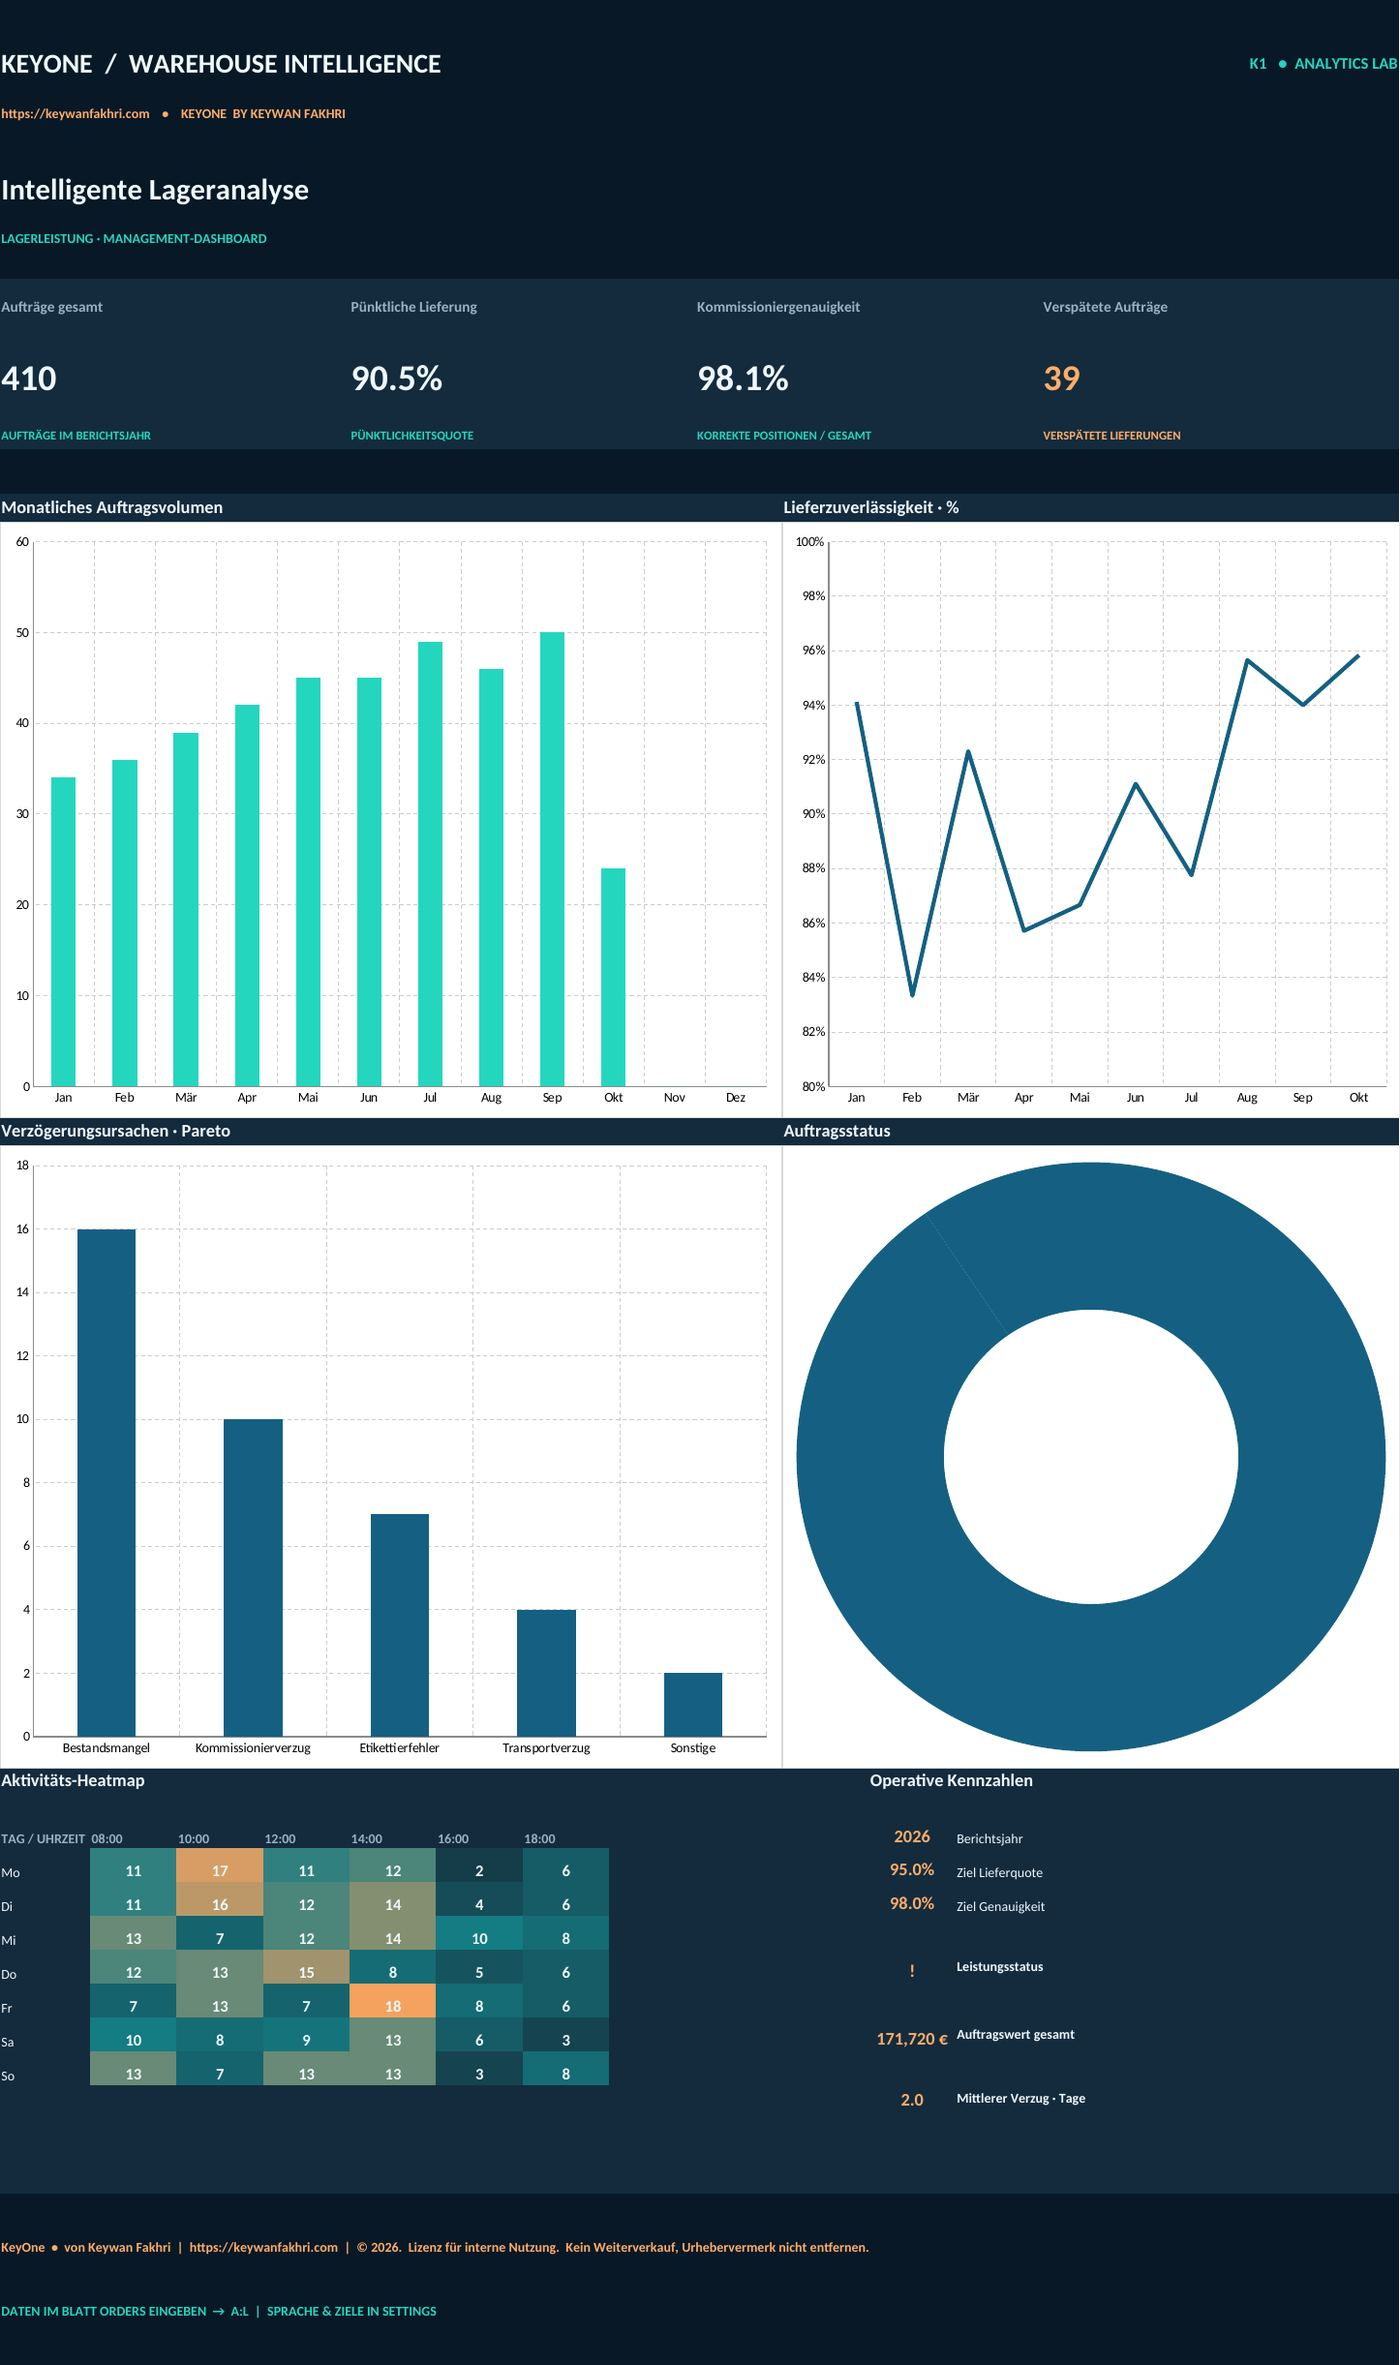
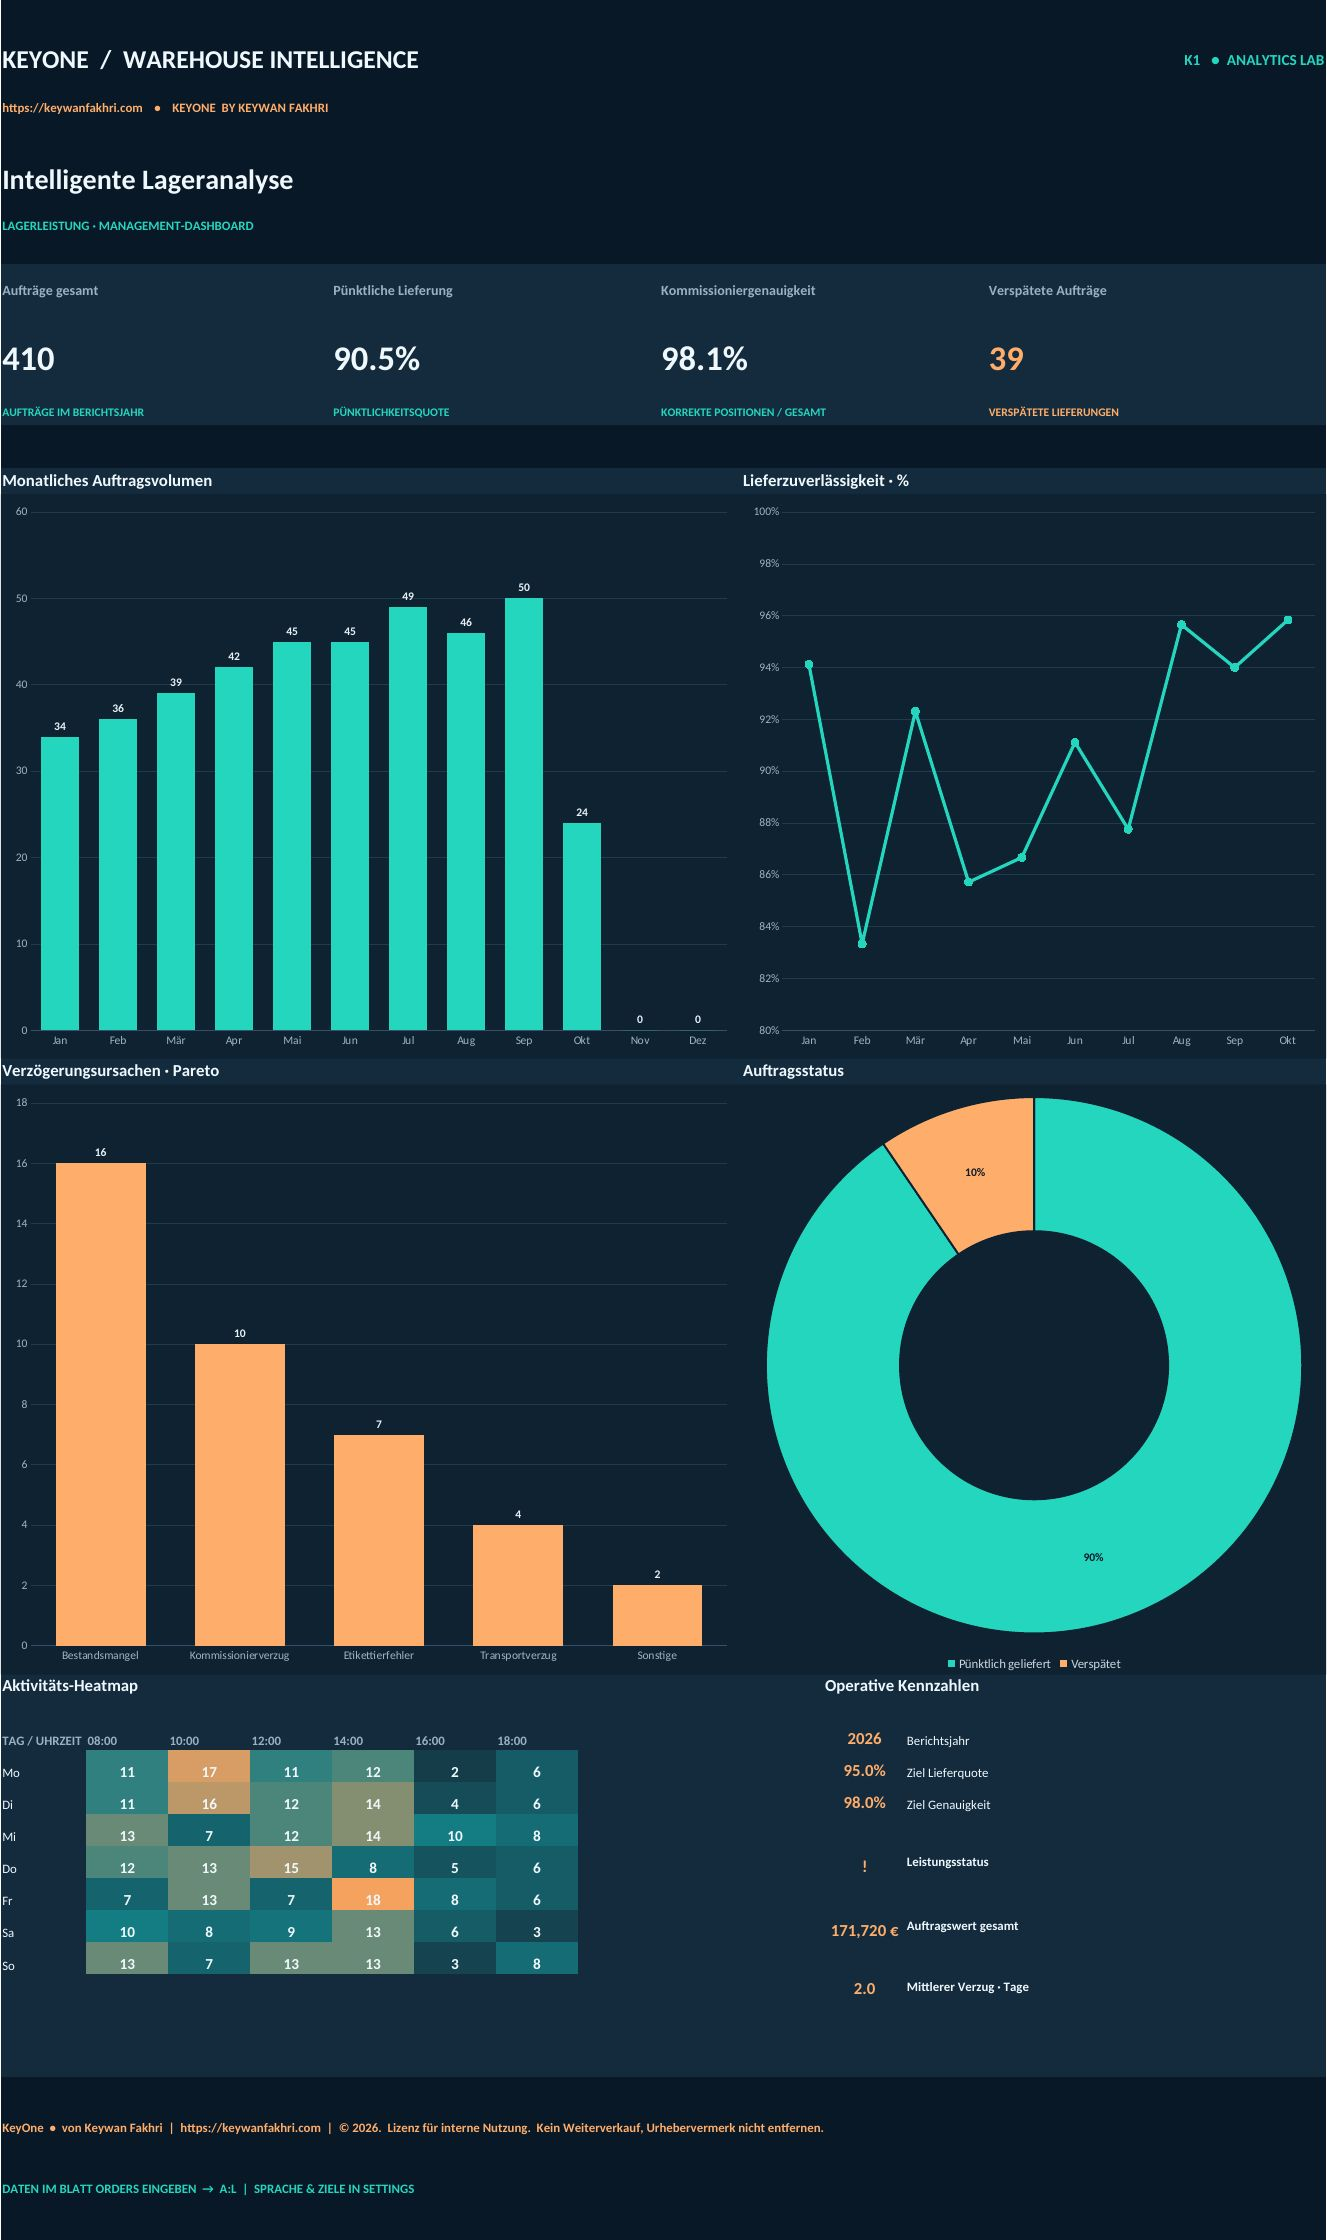
Excel-Vorlagen: Vorschau als Excel-Fenster mit Blatt-Tabs, dunkle Diagramme
Claude-Session: https://claude.ai/code/session_011zZ8NJpMd945i2FbyrcgdB

diff --git a/templates/index.html b/templates/index.html
@@ -36,12 +36,20 @@ html[dir=rtl] .eyebrow{letter-spacing:0}
 h1{font-family:Manrope,'DM Sans',Arial,sans-serif;font-size:clamp(32px,4.2vw,54px);font-weight:600;line-height:1.12;letter-spacing:-1.6px;margin:0;max-width:820px}
 html[dir=rtl] h1,html[dir=rtl] h2{font-family:'Vazirmatn',Arial,sans-serif;letter-spacing:0}
 .lead{font-size:18px;line-height:1.75;color:var(--muted);max-width:640px;margin:20px 0 0}
-.tpl{display:grid;grid-template-columns:minmax(0,1.05fr) minmax(0,1fr);gap:56px;align-items:start;padding:28px 0 64px}
-.shot{margin:0;position:sticky;top:24px}
-.shot a{display:block;border-radius:14px;overflow:hidden;background:var(--night);box-shadow:0 30px 60px -36px rgba(11,26,38,.55),0 0 0 1px rgba(11,26,38,.08);max-height:640px;position:relative}
-.shot img{display:block;width:100%;height:auto}
-.shot a:after{content:"";position:absolute;inset:auto 0 0 0;height:90px;background:linear-gradient(transparent,var(--night))}
-.shot figcaption{font-size:13px;color:var(--muted);margin-top:12px}
+.tpl{display:grid;grid-template-columns:minmax(0,1.15fr) minmax(0,1fr);gap:56px;align-items:start;padding:28px 0 64px}
+.shot{margin:0}
+.win{border-radius:14px;overflow:hidden;background:#0b1a26;box-shadow:0 40px 80px -40px rgba(11,26,38,.6),0 0 0 1px rgba(11,26,38,.12)}
+.win-bar{display:flex;align-items:center;gap:14px;height:42px;padding:0 16px;background:#e9eef0;border-bottom:1px solid #d3dbde}
+.dots{display:flex;gap:7px}.dots i{width:11px;height:11px;border-radius:50%;background:#ff5f57}.dots i:nth-child(2){background:#febc2e}.dots i:nth-child(3){background:#28c840}
+.fname{display:flex;align-items:center;gap:8px;font-size:13px;font-weight:600;color:#3b4d55;overflow:hidden;white-space:nowrap;text-overflow:ellipsis}
+.fname svg{width:16px;height:16px;flex:none}
+.win-body{display:block;background:#0b1a26;line-height:0}
+.win-body img{display:block;width:100%;height:auto;transition:opacity .2s}
+.win-tabs{display:flex;gap:2px;padding:0 10px;background:#e9eef0;border-top:1px solid #d3dbde;overflow-x:auto}
+.win-tabs button{border:0;background:transparent;font:inherit;font-size:13px;font-weight:600;color:#5b6b6c;padding:11px 16px 10px;border-bottom:3px solid transparent;cursor:pointer;white-space:nowrap}
+.win-tabs button:hover{color:var(--ink)}
+.win-tabs button[aria-selected=true]{background:#fff;color:#107c41;border-bottom-color:#107c41}
+.side{position:sticky;top:24px}
 .tag{display:inline-block;font-size:12px;font-weight:700;letter-spacing:1.2px;color:var(--accent-d);background:var(--pale);border:1px solid #cfe5e0;border-radius:999px;padding:6px 12px;direction:ltr}
 h2{font-family:Manrope,'DM Sans',Arial,sans-serif;font-size:clamp(28px,3vw,38px);font-weight:600;letter-spacing:-1px;margin:18px 0 4px;direction:ltr;text-align:start}
 html[dir=rtl] h2{text-align:right}
@@ -73,8 +81,7 @@ footer.foot .wrap{display:flex;justify-content:space-between;gap:16px;flex-wrap:
 @media (max-width:900px){
  .wrap{padding:0 16px}
  .tpl{grid-template-columns:1fr;gap:32px}
- .shot{position:static}
- .shot a{max-height:520px}
+ .side{position:static}
  .steps{grid-template-columns:1fr}
  .hero{padding:40px 0 20px}
  header.top .wrap{min-height:72px;padding-top:8px;padding-bottom:8px}
@@ -102,9 +109,18 @@ footer.foot .wrap{display:flex;justify-content:space-between;gap:16px;flex-wrap:
  </section>
  <article class="tpl wrap" id="warehouse-intelligence">
   <figure class="shot">
-   <a id="shot-link" href="/templates/img/dash-en.jpg" target="_blank" rel="noopener"><img id="shot" src="/templates/img/dash-en.jpg" width="1400" height="2367" alt="" decoding="async"></a>
+   <div class="win">
+    <div class="win-bar" dir="ltr"><span class="dots" aria-hidden="true"><i></i><i></i><i></i></span><span class="fname"><svg viewBox="0 0 24 24" aria-hidden="true"><rect x="3" y="3" width="18" height="18" rx="3" fill="#107c41"/><path d="M8 8l8 8M16 8l-8 8" stroke="#fff" stroke-width="2.2" stroke-linecap="round"/></svg>KeyOne_Warehouse_Intelligence.xlsx</span></div>
+    <a class="win-body" id="shot-link" href="/templates/img/dash-en.jpg" target="_blank" rel="noopener"><img id="shot" src="/templates/img/dash-en.jpg" width="1327" height="2240" alt="" decoding="async"></a>
+    <div class="win-tabs" role="tablist" dir="ltr" id="sheet-tabs">
+     <button type="button" role="tab" data-sheet="dash" aria-selected="true">Dashboard</button>
+     <button type="button" role="tab" data-sheet="orders" aria-selected="false">Orders</button>
+     <button type="button" role="tab" data-sheet="settings" aria-selected="false">Settings</button>
+     <button type="button" role="tab" data-sheet="guide" aria-selected="false">Guide</button>
+    </div>
+   </div>
   </figure>
-  <div>
+  <div class="side">
    <span class="tag" data-t="tag"></span>
    <h2>Warehouse Intelligence</h2>
    <p class="sub" data-t="sub"></p>
@@ -137,6 +153,11 @@ let lang=new URLSearchParams(location.search).get('lang')||stored||'de';
 if(!I18N[lang])lang='de';
 const sel=document.getElementById('lang');
 sel.innerHTML=NAMES.map(([c,n])=>`<option value="${c}">${n}</option>`).join('');
+let sheet='dash';
+const SIZES={dash:[1327,2240],orders:[1400,589],settings:[1400,976],guide:[1400,1055]};
+function showSheet(k){sheet=k;const img=`/templates/img/${k}-${lang}.jpg`,el=document.getElementById('shot');el.src=img;el.width=SIZES[k][0];el.height=SIZES[k][1];document.getElementById('shot-link').href=img;
+ document.querySelectorAll('#sheet-tabs button').forEach(b=>b.setAttribute('aria-selected',String(b.dataset.sheet===k)));}
+document.getElementById('sheet-tabs').addEventListener('click',e=>{const b=e.target.closest('button');if(b)showSheet(b.dataset.sheet)});
 function render(){
  const t=I18N[lang];
  document.documentElement.lang=lang;
@@ -146,8 +167,7 @@ function render(){
  document.querySelectorAll('[data-t]').forEach(el=>el.textContent=t[el.dataset.t]);
  document.getElementById('feats').innerHTML=t.f.map(x=>`<li>${CHECK}<span>${esc(x)}</span></li>`).join('');
  document.getElementById('steps').innerHTML=t.s.map(x=>`<li>${esc(x)}</li>`).join('');
- const img=`/templates/img/dash-${lang}.jpg`;
- const shot=document.getElementById('shot');shot.src=img;shot.alt=t.alt;document.getElementById('shot-link').href=img;
+ showSheet(sheet);document.getElementById('shot').alt=t.alt;
  const q='?lang='+lang;
  document.getElementById('home-link').href='/'+q;
  document.getElementById('nav-projects').href='/'+q+'#projects';
